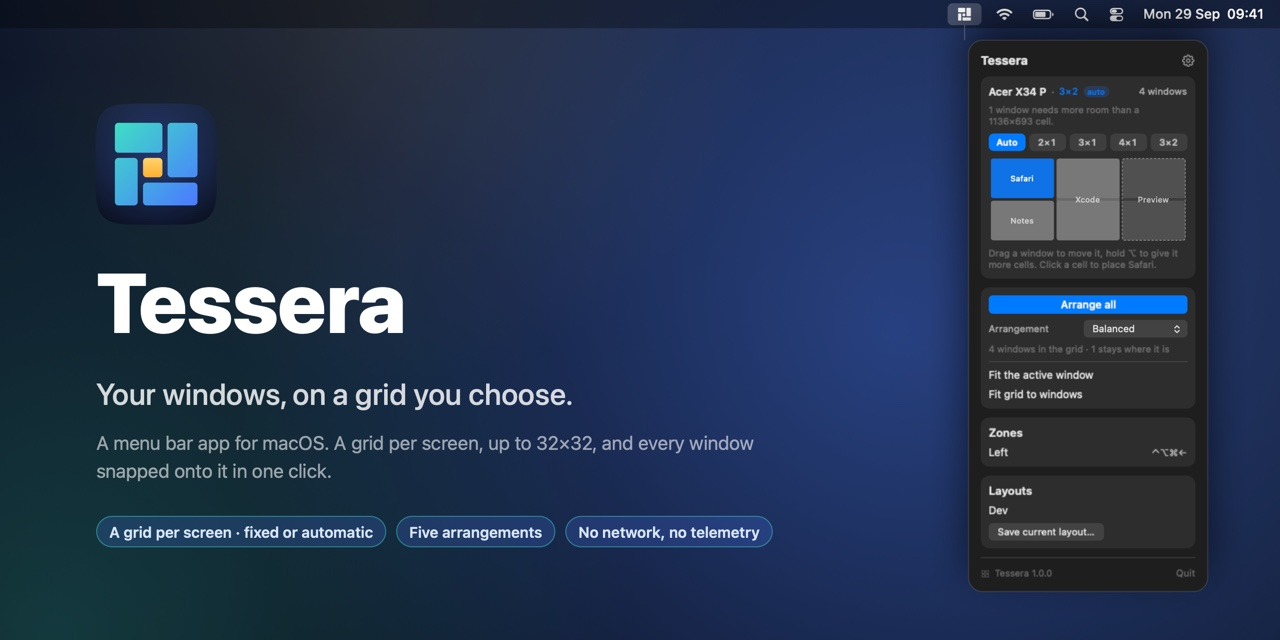
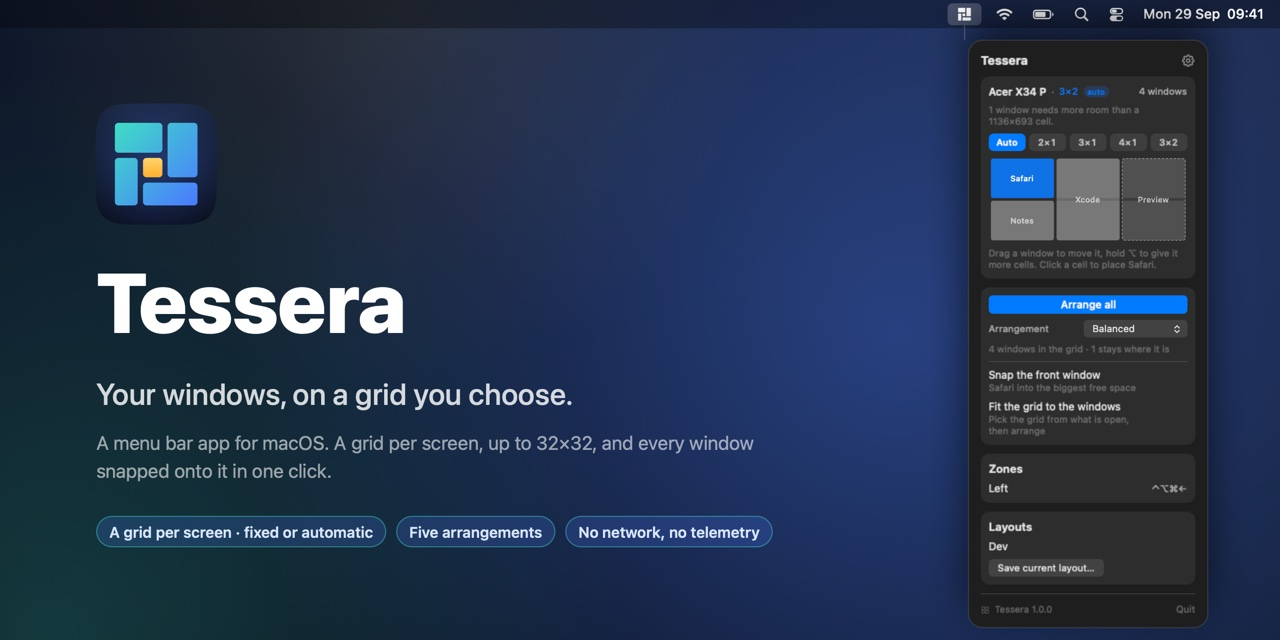
La finestra davanti si perdeva appena Tessera passava davanti
Aprire il popover mette Tessera in primo piano, quindi dalla seconda
apertura in poi "la finestra davanti" era la sua, cioe' nessuna: la riga
"sistema la finestra attiva" restava grigia e il clic sulla mappa non
faceva niente. Ora ricorda l'app che era davanti prima di lei, e se
quell'app non ha una finestra col fuoco prende la sua prima finestra
piazzabile. --diagnose stampa che finestra vede.

Le due voci sotto il pulsante dicono anche cosa fanno, e quando una non
e' disponibile spiega perche' invece di spegnersi e basta.

diff --git a/Sources/MenuBar.swift b/Sources/MenuBar.swift
@@ -557,10 +557,17 @@ struct TesseraPopover: View {
                 .font(.system(size: 10.5)).foregroundStyle(.tertiary)
                 .fixedSize(horizontal: false, vertical: true)
             Divider()
-            PopoverRow(title: tr("Fit the active window"), enabled: model.canPlace) {
+            PopoverRow(title: tr("Snap the front window"),
+                       note: model.canPlace
+                           ? String(format: tr("%@ into the biggest free space"),
+                                    model.appName ?? "")
+                           : tr("Nothing is in front right now"),
+                       enabled: model.canPlace) {
                 MenuBarController.shared.fitFocused()
             }
-            PopoverRow(title: tr("Fit grid to windows"), enabled: model.trusted) {
+            PopoverRow(title: tr("Fit the grid to the windows"),
+                       note: tr("Pick the grid from what is open, then arrange"),
+                       enabled: model.trusted) {
                 MenuBarController.shared.fitGridToWindows()
             }
         }
@@ -651,6 +658,13 @@ final class MenuBarController: NSObject, NSPopoverDelegate {
     /// afterwards the popover is frontmost and `AX.focusedWindow()` answers with the wrong thing.
     private var capturedWindow: ManagedWindow?
 
+    /// The last app that was in front before Tessera. Clicking the status item puts Tessera in
+    /// front, and so does opening the popover, so by the time the popover asks "what was the
+    /// front window?" the honest answer is no longer available from the system — unless it has
+    /// been kept. Without this, reopening the popover twice in a row disabled everything that
+    /// acts on the front window.
+    private var lastActiveApp: NSRunningApplication?
+
     var isPopoverShown: Bool { popover.isShown }
 
     func install() {
@@ -662,6 +676,15 @@ final class MenuBarController: NSObject, NSPopoverDelegate {
         statusItem = item
         popover.behavior = .transient
         popover.delegate = self
+        NSWorkspace.shared.notificationCenter.addObserver(
+            forName: NSWorkspace.didActivateApplicationNotification, object: nil, queue: .main
+        ) { [weak self] note in
+            let app = note.userInfo?[NSWorkspace.applicationUserInfoKey] as? NSRunningApplication
+            guard let app, app.processIdentifier != ProcessInfo.processInfo.processIdentifier
+            else { return }
+            self?.lastActiveApp = app
+        }
+        lastActiveApp = NSWorkspace.shared.frontmostApplication
     }
 
     /// Re-reads the config while the popover is open. Closed, it will read it again on the next open.
@@ -682,7 +705,7 @@ final class MenuBarController: NSObject, NSPopoverDelegate {
             if model.page == page { closePopover() } else { model.page = page }
             return
         }
-        capturedWindow = AX.isTrusted ? AX.focusedWindow() : nil
+        capturedWindow = captureFrontWindow()
         model.reload(window: capturedWindow)
         prefs.reload()
         model.page = page
@@ -692,6 +715,18 @@ final class MenuBarController: NSObject, NSPopoverDelegate {
         NSApp.activate(ignoringOtherApps: true)
         popover.show(relativeTo: button.bounds, of: button, preferredEdge: .minY)
         popover.contentViewController?.view.window?.makeKey()
+    }
+
+    /// Whatever was in front before Tessera got in the way: the system's answer while another
+    /// app is still frontmost, and the app we remembered once Tessera is.
+    func captureFrontWindow() -> ManagedWindow? {
+        guard AX.isTrusted else { return nil }
+        let us = ProcessInfo.processInfo.processIdentifier
+        if let front = NSWorkspace.shared.frontmostApplication, front.processIdentifier != us,
+           let window = AX.focusedWindow(of: front) {
+            return window
+        }
+        return lastActiveApp.flatMap(AX.focusedWindow(of:))
     }
 
     func closePopover() {

diff --git a/Sources/WindowsAX.swift b/Sources/WindowsAX.swift
@@ -110,13 +110,28 @@ enum AX {
 
     /// The focused window of the frontmost app — the target of a hotkey or a menu-bar click.
     static func focusedWindow() -> ManagedWindow? {
-        guard let app = NSWorkspace.shared.frontmostApplication, let bundleID = app.bundleIdentifier
-        else { return nil }
+        guard let app = NSWorkspace.shared.frontmostApplication else { return nil }
+        return focusedWindow(of: app)
+    }
+
+    /// The window this app is working in. Asked of a named app rather than of "whatever is in
+    /// front", because Tessera itself is in front the moment its popover opens — and then
+    /// "the front window" would be its own, which is nothing.
+    static func focusedWindow(of app: NSRunningApplication) -> ManagedWindow? {
+        guard let bundleID = app.bundleIdentifier else { return nil }
         let appElement = AXUIElementCreateApplication(app.processIdentifier)
-        guard let window = attribute(appElement, kAXFocusedWindowAttribute as String, AXUIElement?.self) ?? nil
-        else { return nil }
-        return ManagedWindow(element: window, pid: app.processIdentifier, bundleID: bundleID,
-                             appName: app.localizedName ?? bundleID, title: title(of: window))
+        func wrap(_ window: AXUIElement) -> ManagedWindow {
+            ManagedWindow(element: window, pid: app.processIdentifier, bundleID: bundleID,
+                          appName: app.localizedName ?? bundleID, title: title(of: window))
+        }
+        if let window = attribute(appElement, kAXFocusedWindowAttribute as String, AXUIElement?.self) ?? nil,
+           isPlaceable(window) {
+            return wrap(window)
+        }
+        // No focused window is not the same as no window: an app can be in front with its
+        // menu bar and a document window that simply does not hold focus.
+        let windows = attribute(appElement, kAXWindowsAttribute as String, [AXUIElement].self) ?? []
+        return windows.first(where: isPlaceable).map(wrap)
     }
 
     /// The window under a screen point (Cocoa coords), topmost first — what a drag is carrying.

diff --git a/Sources/Localization.swift b/Sources/Localization.swift
@@ -67,8 +67,12 @@ let italian: [String: String] = [
     "%d windows in the grid": "%d finestre in griglia",
     "1 stays where it is": "1 resta dov'è",
     "%d stay where they are": "%d restano dove sono",
-    "Fit the active window": "Sistema la finestra attiva",
-    "Fit grid to windows": "Adatta la griglia alle finestre",
+    "Snap the front window": "Sistema la finestra davanti",
+    "%@ into the biggest free space": "%@ nello spazio libero più grande",
+    "Nothing is in front right now": "Adesso non c'è nessuna finestra davanti",
+    "Fit the grid to the windows": "Adatta la griglia alle finestre",
+    "Pick the grid from what is open, then arrange":
+        "Sceglie la griglia da ciò che è aperto, poi dispone",
     "Layouts": "Disposizioni",
     "No saved layouts.": "Nessuna disposizione salvata.",
     "Save current layout…": "Salva disposizione attuale…",
@@ -157,6 +161,7 @@ let italian: [String: String] = [
         "Schermo %@: sistemate %d finestre con la strategia «%@».",
     "Tessera %@ — diagnostics (no window is moved)":
         "Tessera %@ — diagnostica (nessuna finestra viene spostata)",
+    "Front window: %@": "Finestra davanti: %@",
     "Accessibility access: %@": "Accesso Accessibilità: %@",
     "on": "attivo",
     "NOT on — allow the app and try again": "NON attivo — autorizza l'app e riprova",

diff --git a/Sources/main.swift b/Sources/main.swift
@@ -320,7 +320,12 @@ func diagnosticsText() -> String {
     print(String(format: tr("Tessera %@ — diagnostics (no window is moved)"), appVersion))
     print(String(format: tr("Accessibility access: %@"),
                  AX.isTrusted ? tr("on") : tr("NOT on — allow the app and try again")))
-    print(String(format: tr("Default arrangement: %@"), config.defaultStrategy.label) + "\n")
+    print(String(format: tr("Default arrangement: %@"), config.defaultStrategy.label))
+    // What the popover would act on. Tessera is in front while its own popover is open, so
+    // this is the app that was in front before it, not whatever the system says right now.
+    print(String(format: tr("Front window: %@"),
+                 MenuBarController.shared.captureFrontWindow()
+                    .map { "\($0.appName) — \($0.title)" } ?? tr("none")) + "\n")
 
     for screen in NSScreen.screens {
         let key = screen.tesseraKey

diff --git a/CHANGELOG.md b/CHANGELOG.md
@@ -13,6 +13,14 @@
   asked.
 - **`--diagnose` and the popover count what the arrangement will really do**, including the
   windows it will leave alone.
+- **Fixed: everything that acts on the front window went dead after the first use.** Opening the
+  popover puts Tessera in front, so the second time it opened, "the front window" was Tessera's
+  own — nothing. It now remembers the app that was in front before it, and falls back to that
+  app's first placeable window when nothing holds focus. `--diagnose` prints what it sees as the
+  front window.
+- **The two commands under the arrange button say what they do**: "Snap the front window" (with
+  the app's name and where it will go) and "Fit the grid to the windows". When the first one is
+  unavailable it says why instead of being a grey line.
 - **Quick grids in the popover**: Auto plus the presets that suit the shape of that screen, one
   click away, with the arrangement named in a picker instead of hidden behind an icon. Picking an
   arrangement makes it the default and applies it.
